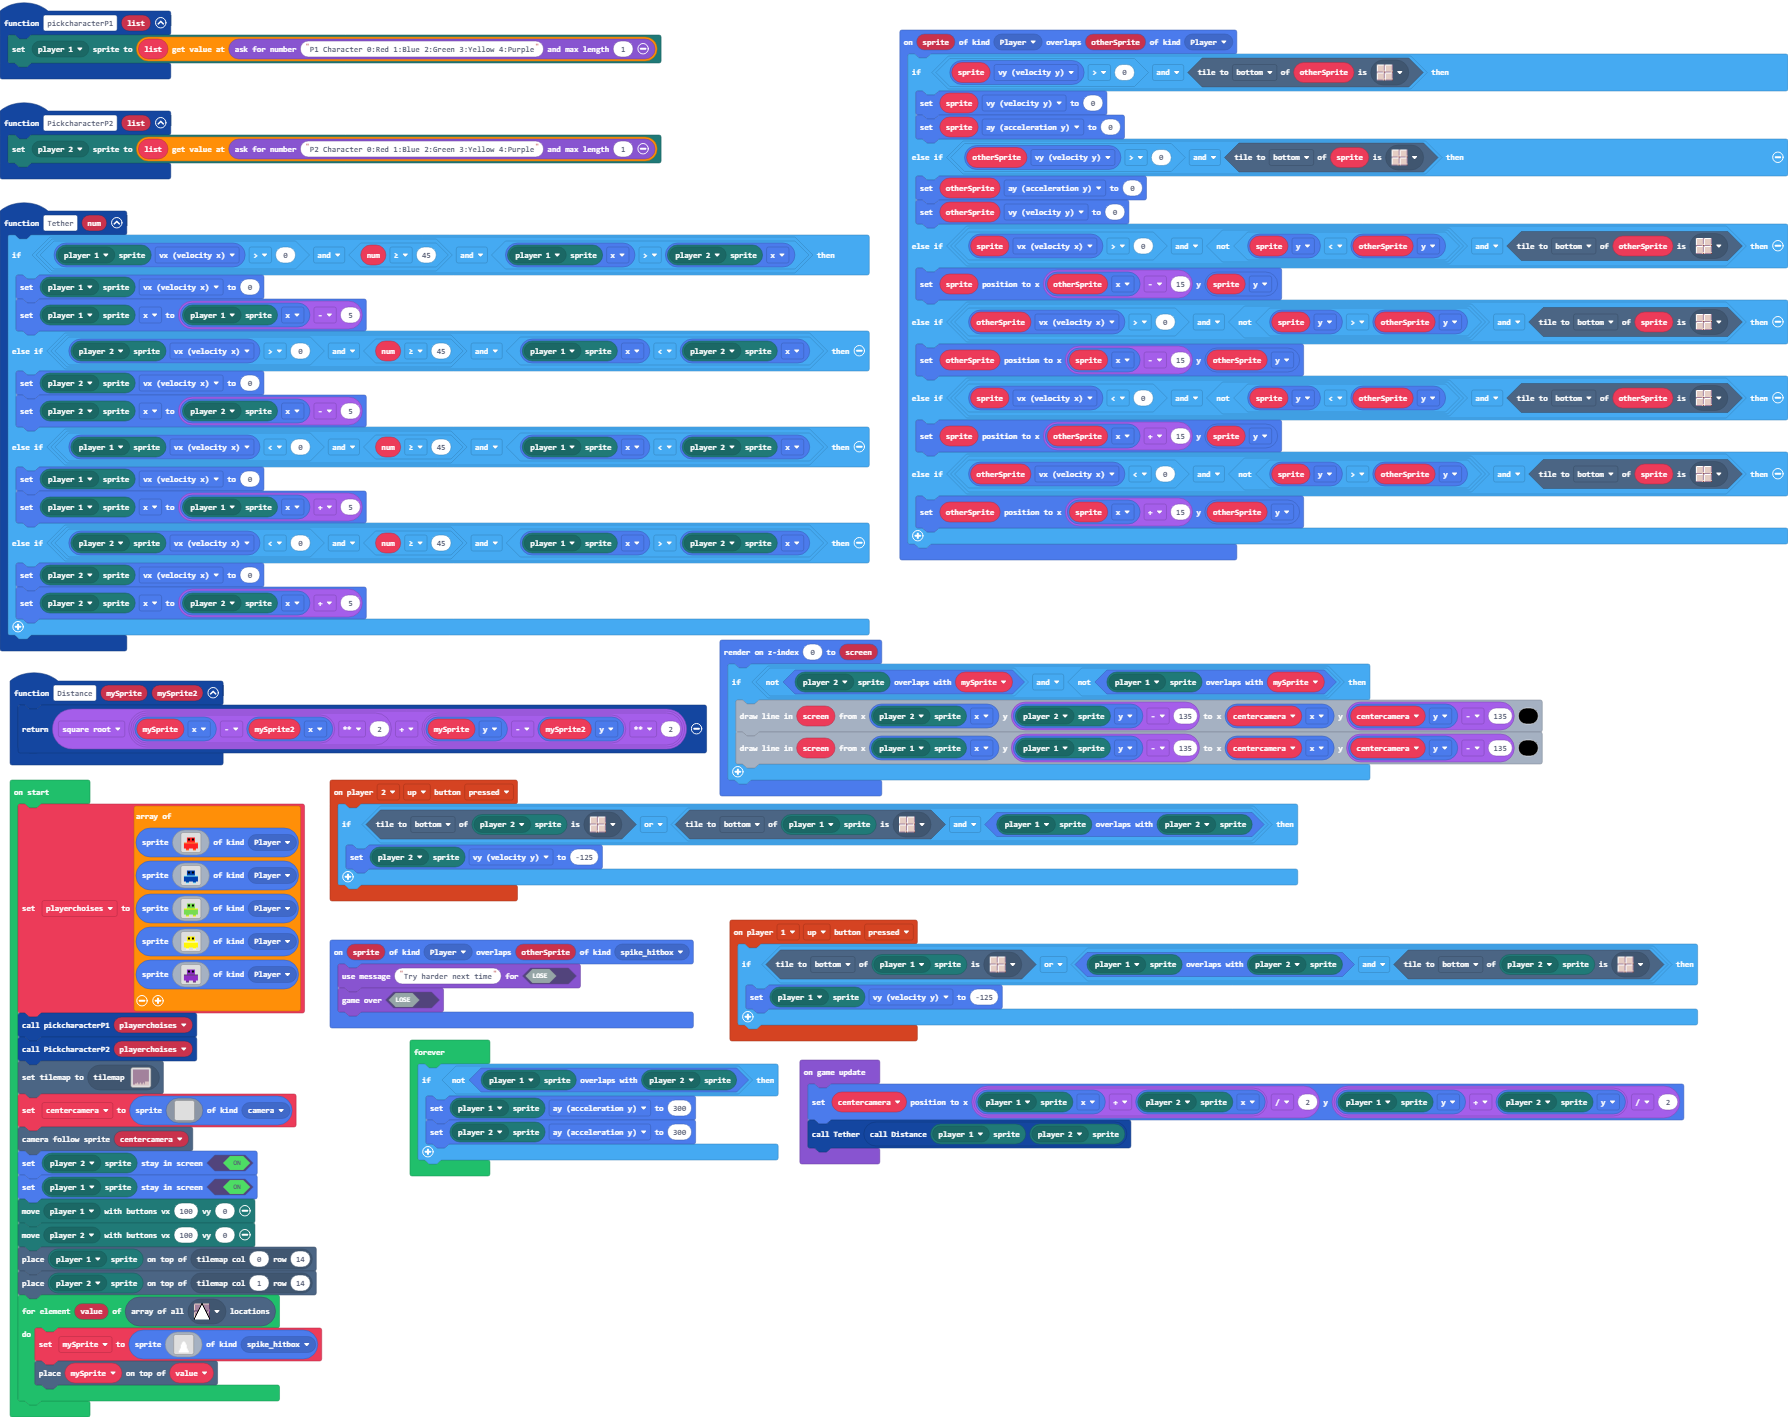
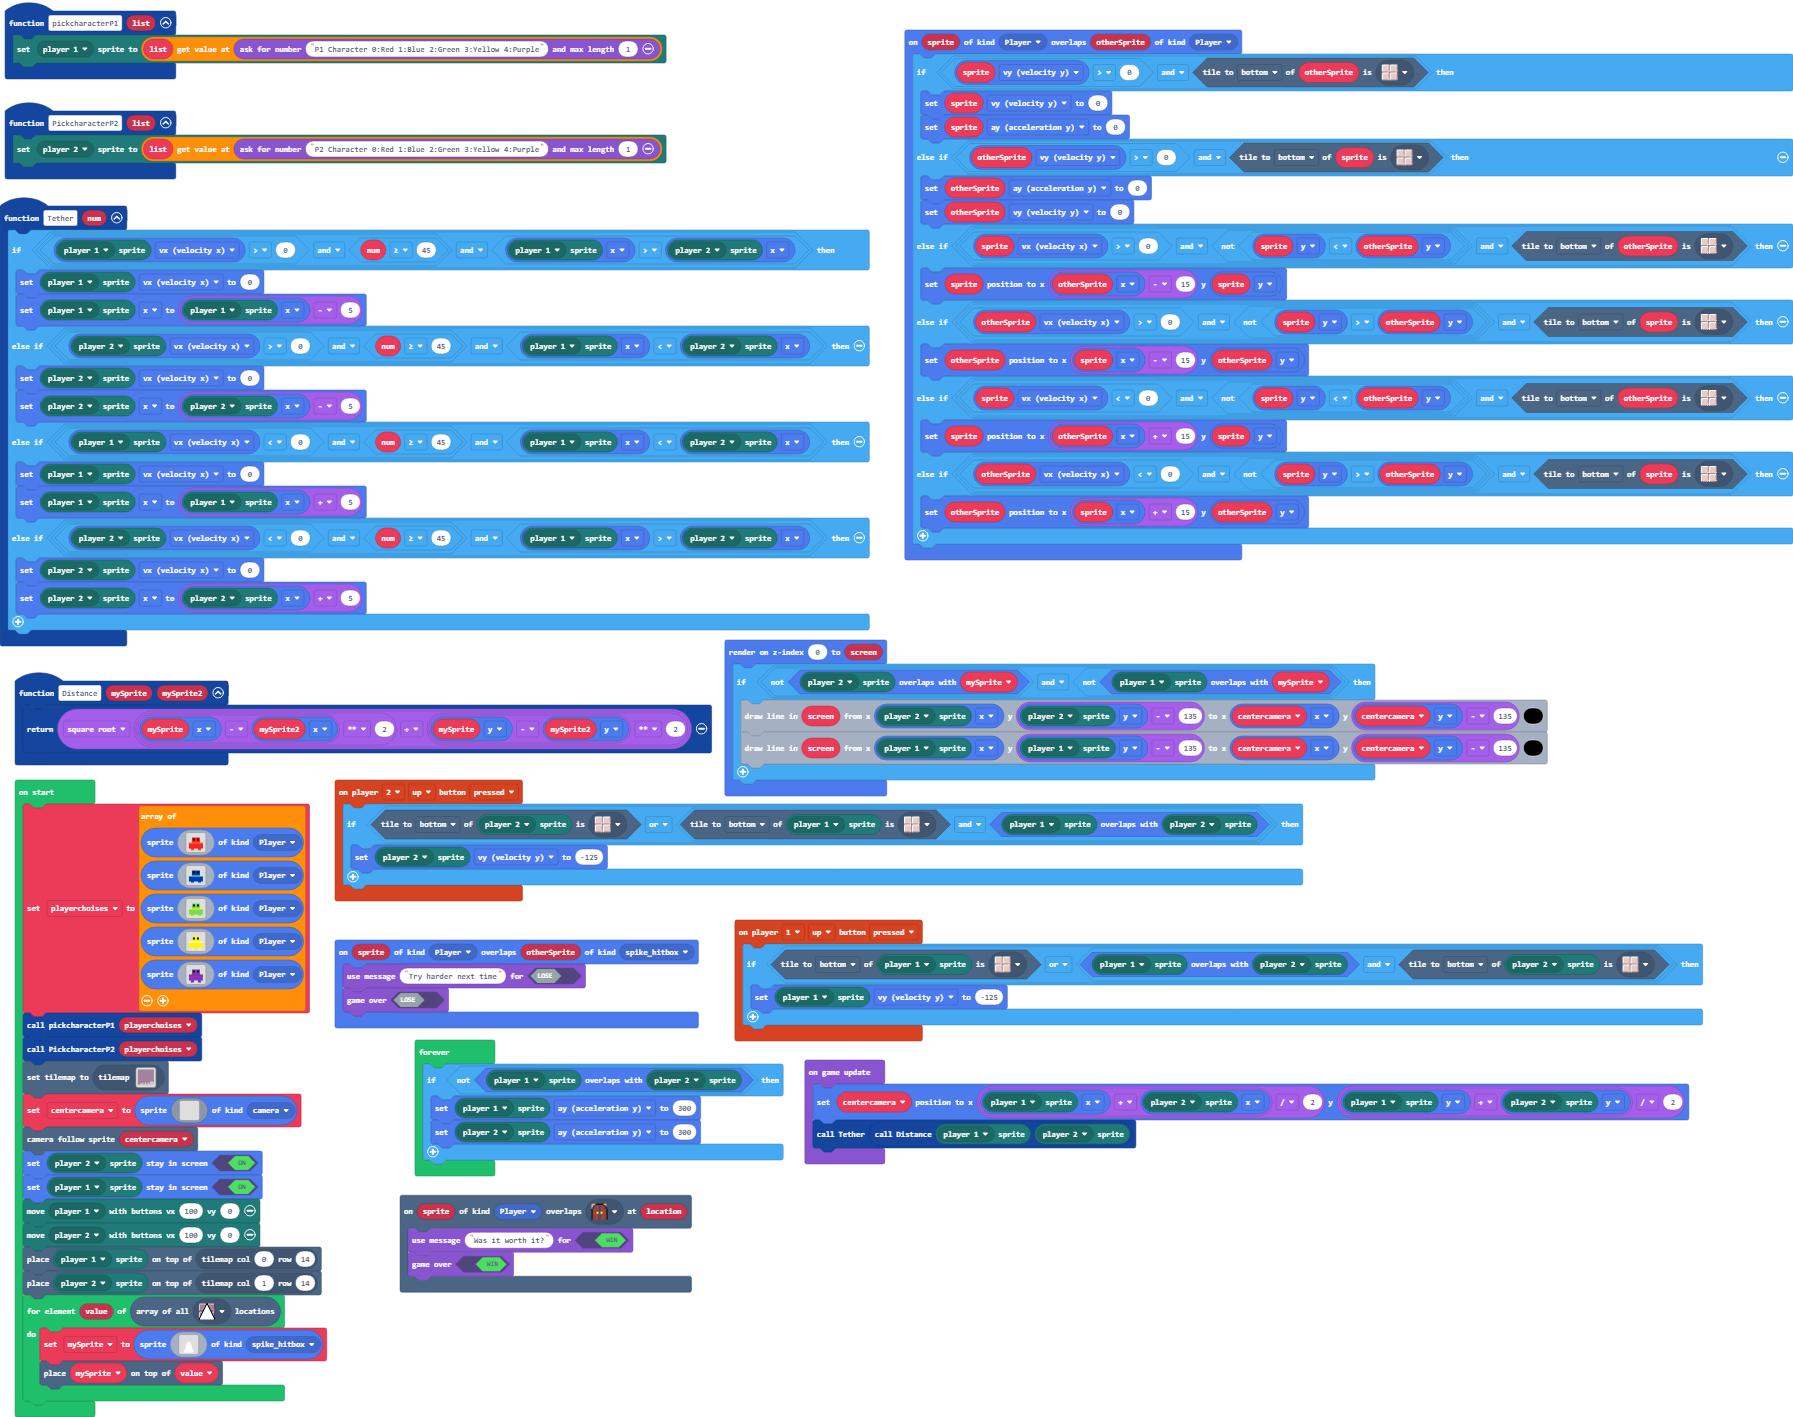
Update main.blocks, main.ts, tilemap.g.jres, tilemap.g.ts

diff --git a/tilemap.g.ts b/tilemap.g.ts
@@ -4,6 +4,8 @@ namespace myTiles {
     export const transparency16 = image.ofBuffer(hex``);
     //% fixedInstance jres blockIdentity=images._tile
     export const tile1 = image.ofBuffer(hex``);
+    //% fixedInstance jres blockIdentity=images._tile
+    export const tile2 = image.ofBuffer(hex``);
 
     helpers._registerFactory("tilemap", function(name: string) {
         switch(helpers.stringTrim(name)) {
@@ -27,7 +29,7 @@ namespace myTiles {
 . . . . . . . . . . . . . . . . 
 `, [myTiles.transparency16], TileScale.Sixteen);
             case "level2":
-            case "level2":return tiles.createTilemap(hex`1000100002020202020202020202020202020202020202020202020202020202020202020202020202020202020202020202020202020202020202020202020202020202020202020202020202020202020202020202020202020202020202020202020202020202020202020202020202020202020202020202020202020202020202020202020202020202020202020202020202020202020202020202020202020202020202020202020202020202020202020202020202020202020202020202020202020202020202020202020201010101020202020102020102020102010101010202010101030301030301030101010101010101010101010101010101010101`, img`
+            case "level2":return tiles.createTilemap(hex`1000100002020202020202020202020202020202020202020202020202020202020202020202020202020202020202020202020202020202020202020202020202020202020202020202020202020202020202020202020202020202020202020202020202020202020202020202020202020202020202020202020202020202020202020202020202020202020202020202020202020202020202020202020202020202020202020202020202020202020202020202020202020202020202020202020402020202020202020202020201010101020202020102020102020102010101010202010101030301030301030101010101010101010101010101010101010101`, img`
 . . . . . . . . . . . . . . . . 
 . . . . . . . . . . . . . . . . 
 . . . . . . . . . . . . . . . . 
@@ -44,7 +46,7 @@ namespace myTiles {
 . . . . 2 . . 2 . . 2 . 2 2 2 2 
 . . 2 2 2 . . 2 . . 2 . 2 2 2 2 
 2 2 2 2 2 2 2 2 2 2 2 2 2 2 2 2 
-`, [myTiles.transparency16,sprites.dungeon.floorLight0,sprites.dungeon.floorDark0,myTiles.tile1], TileScale.Sixteen);
+`, [myTiles.transparency16,sprites.dungeon.floorLight0,sprites.dungeon.floorDark0,myTiles.tile1,myTiles.tile2], TileScale.Sixteen);
         }
         return null;
     })
@@ -54,6 +56,8 @@ namespace myTiles {
             case "transparency16":return transparency16;
             case "myTile":
             case "tile1":return tile1;
+            case "myTile0":
+            case "tile2":return tile2;
         }
         return null;
     })

diff --git a/main.ts b/main.ts
@@ -3,6 +3,10 @@ namespace SpriteKind {
     export const Player2 = SpriteKind.create()
     export const spike_hitbox = SpriteKind.create()
 }
+scene.onOverlapTile(SpriteKind.Player, assets.tile`myTile0`, function (sprite, location) {
+    game.setGameOverMessage(true, "Was it worth it?")
+    game.gameOver(true)
+})
 sprites.onOverlap(SpriteKind.Player, SpriteKind.spike_hitbox, function (sprite, otherSprite) {
     game.setGameOverMessage(false, "Try harder next time")
     game.gameOver(false)
